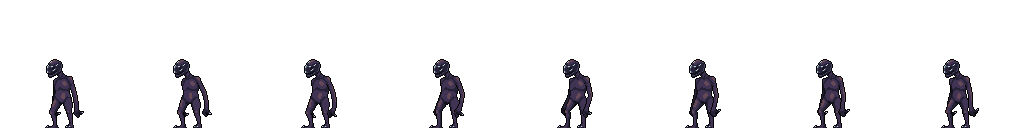
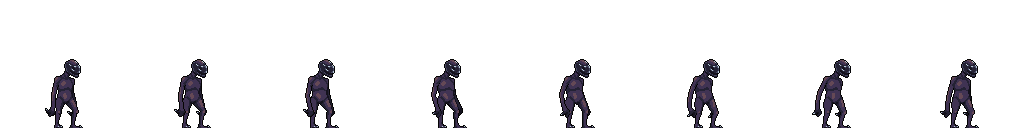
Replace Demon with MeeleDemon in level_1 and update related files; add meleeDemon class with animations and behaviors

diff --git a/models/meeleDemon.class.js b/models/meeleDemon.class.js
@@ -1,4 +1,4 @@
-class Demon extends MovableObject {
+class meeleDemon extends MovableObject {
     IMAGES_WALK = [
         {path:'img/enemies/demon2/walk/walk10.png',width: 44, height: 69, offsetX: -22}, 
         {path:'img/enemies/demon2/walk/walk9.png',width: 40, height: 70, offsetX: -20}, 
@@ -40,20 +40,31 @@ class Demon extends MovableObject {
         {path:'img/enemies/demon2/attack/attack5.png', width: 71, height: 71, offsetX: -10},
         {path:'img/enemies/demon2/attack/attack6.png', width: 40, height: 65, offsetX: -10}
     ];
+    IMAGES_IDLE = [
+        {path:'img/enemies/demon2/idle/idle1.png', width: 38, height: 69, offsetX: -17},
+        {path:'img/enemies/demon2/idle/idle2.png', width: 37, height: 69, offsetX: -16},
+        {path:'img/enemies/demon2/idle/idle3.png', width: 36, height: 69, offsetX: -15},
+        {path:'img/enemies/demon2/idle/idle4.png', width: 36, height: 69, offsetX: -15},
+        {path:'img/enemies/demon2/idle/idle5.png', width: 36, height: 69, offsetX: -15},
+        {path:'img/enemies/demon2/idle/idle6.png', width: 36, height: 69, offsetX: -15},
+        {path:'img/enemies/demon2/idle/idle7.png', width: 39, height: 69, offsetX: -18},
+        {path:'img/enemies/demon2/idle/idle8.png', width: 39, height: 69, offsetX: -18},
+    ];
     currentImage = 0;
     zoom = 2;
     HP = 40;
     isAttacking = false;
     lastAttack = 0;
-    attackCooldown = 1000;
+    attackCooldown = 2000;
 
 
     constructor() {
-        super().loadImage('img/enemies/demon2/walk/walk10.png');
+        super().loadImage('img/enemies/demon2/walk/walk1.png');
         this.loadImages(this.IMAGES_WALK.map(sprite => sprite.path));
         this.loadImages(this.IMAGES_HURT.map(sprite => sprite.path));
         this.loadImages(this.IMAGES_DEAD.map(sprite => sprite.path));
         this.loadImages(this.IMAGES_ATTACK.map(sprite => sprite.path));
+        this.loadImages(this.IMAGES_IDLE.map(sprite => sprite.path));
         this.x = 800 + Math.random() * 4000;
         this.y = 500;
         this.speed = 0.25 + Math.random() * 1.5;
@@ -62,7 +73,7 @@ class Demon extends MovableObject {
     };
 
 
-    killDemon() {
+    killMeleeDemon() {
         this.hit();
         if (this.isDead()) {
             this.world.spawnHealPotion(this.x, this.y);
@@ -90,7 +101,7 @@ class Demon extends MovableObject {
 
 
     isCharacterInRange() {
-        if (!this.world || !this.world.character) return false;
+        if (!this.world || !this.world.character || this.world.character.isDying) return false;
         
         let distance = Math.abs(this.x - this.world.character.x);
         return distance < 190; // 190px Angriffs-Reichweite
@@ -99,11 +110,11 @@ class Demon extends MovableObject {
 
     animate() {
         setInterval(() => {
-            if (!this.isAttacking && !this.isDying) {
+            if ((!this.isCharacterInRange() && !this.isAttacking && !this.isDying)) {
                 this.moveLeft();
-                if (this.isCharacterInRange()) {
-                    this.startAttack();
-                }
+            }
+            if (this.isCharacterInRange() && !this.isAttacking && !this.world.character.isDying) {
+                this.startAttack();
             }
         }, 1000 / 60);  
         
@@ -119,6 +130,7 @@ class Demon extends MovableObject {
                     this.animateImages(this.IMAGES_HURT);
                 }
             } else if (this.isAttacking) {
+                this.speed = 0;
                 if (this.currentImage < this.IMAGES_ATTACK.length) {
                     this.animateImages(this.IMAGES_ATTACK);
                     if (this.currentImage === 3 && this.isCharacterInRange()) {
@@ -127,8 +139,13 @@ class Demon extends MovableObject {
                 } else {
                     this.isAttacking = false;
                     this.currentImage = 0;
-                    this.speed = 0.25 + Math.random() * 1.5;
+                    if (!this.isCharacterInRange()) {
+                        this.speed = 0.25 + Math.random() * 1.5;
+                    }
                 }
+            } else if (this.isCharacterInRange() && !this.world.character.isDying) {
+                this.speed = 0;
+                this.animateImages(this.IMAGES_IDLE);
             } else {
                 this.speed = 0.25 + Math.random() * 1.5;
                 this.animateImages(this.IMAGES_WALK);
@@ -138,7 +155,7 @@ class Demon extends MovableObject {
 
 
     dealDamageToCharacter() {
-        if (this.world && this.world.character && this.isCharacterInRange() && !this.world.character.isHurt()) {
+        if (this.world && this.world.character && this.isCharacterInRange() && !this.world.character.isHurt() && !this.world.character.isDying) {
             this.world.character.hit();
             this.world.statusLive.setPercentage(this.world.character.HP);
         }

diff --git a/models/world.class.js b/models/world.class.js
@@ -121,9 +121,9 @@ class World {
             this.level.enemies.forEach(enemy => {
                 if (fireball.isColliding(enemy)) {
                     this.removeFireball(fireball);
-                    if (enemy instanceof Demon) {
+                    if (enemy instanceof meeleDemon) {
                     enemy.world = this;
-                    enemy.killDemon();
+                    enemy.killMeleeDemon();
                 }
                 }
             });

diff --git a/index.html b/index.html
@@ -20,7 +20,7 @@
     <script src="./models/sky.class.js"></script>
     <script src="./models/keybord.class.js"></script>
     <script src="./models/character.class.js"></script>
-    <script src="./models/demon.class.js"></script>
+    <script src="./models/meeleDemon.class.js"></script>
     <script src="./models/crows.class.js"></script>
     <script src="./models/endBoss.class.js"></script>
     <script src="./models/backgroundObjects.class.js"></script>

diff --git a/levels/level_1.js b/levels/level_1.js
@@ -1,11 +1,11 @@
 const level_1 = new level (
     [
-        new Demon(),
-        new Demon(),
-        new Demon(),
-        new Demon(),
-        new Demon(),
-        new Demon(),
+        new meeleDemon(),
+        new meeleDemon(),
+        new meeleDemon(),
+        new meeleDemon(),
+        new meeleDemon(),
+        new meeleDemon(),
 
         new Endboss()
     ],

diff --git a/models/movableObject.class.js b/models/movableObject.class.js
@@ -10,7 +10,7 @@ class MovableObject extends DrawableObject{
     
     
     drawBorder(ctx){
-        if (this instanceof Character || this instanceof Demon) {
+        if (this instanceof Character || this instanceof meeleDemon) {
             ctx.beginPath();
             ctx.lineWidth = '5';
             ctx.strokeStyle = 'blue';
